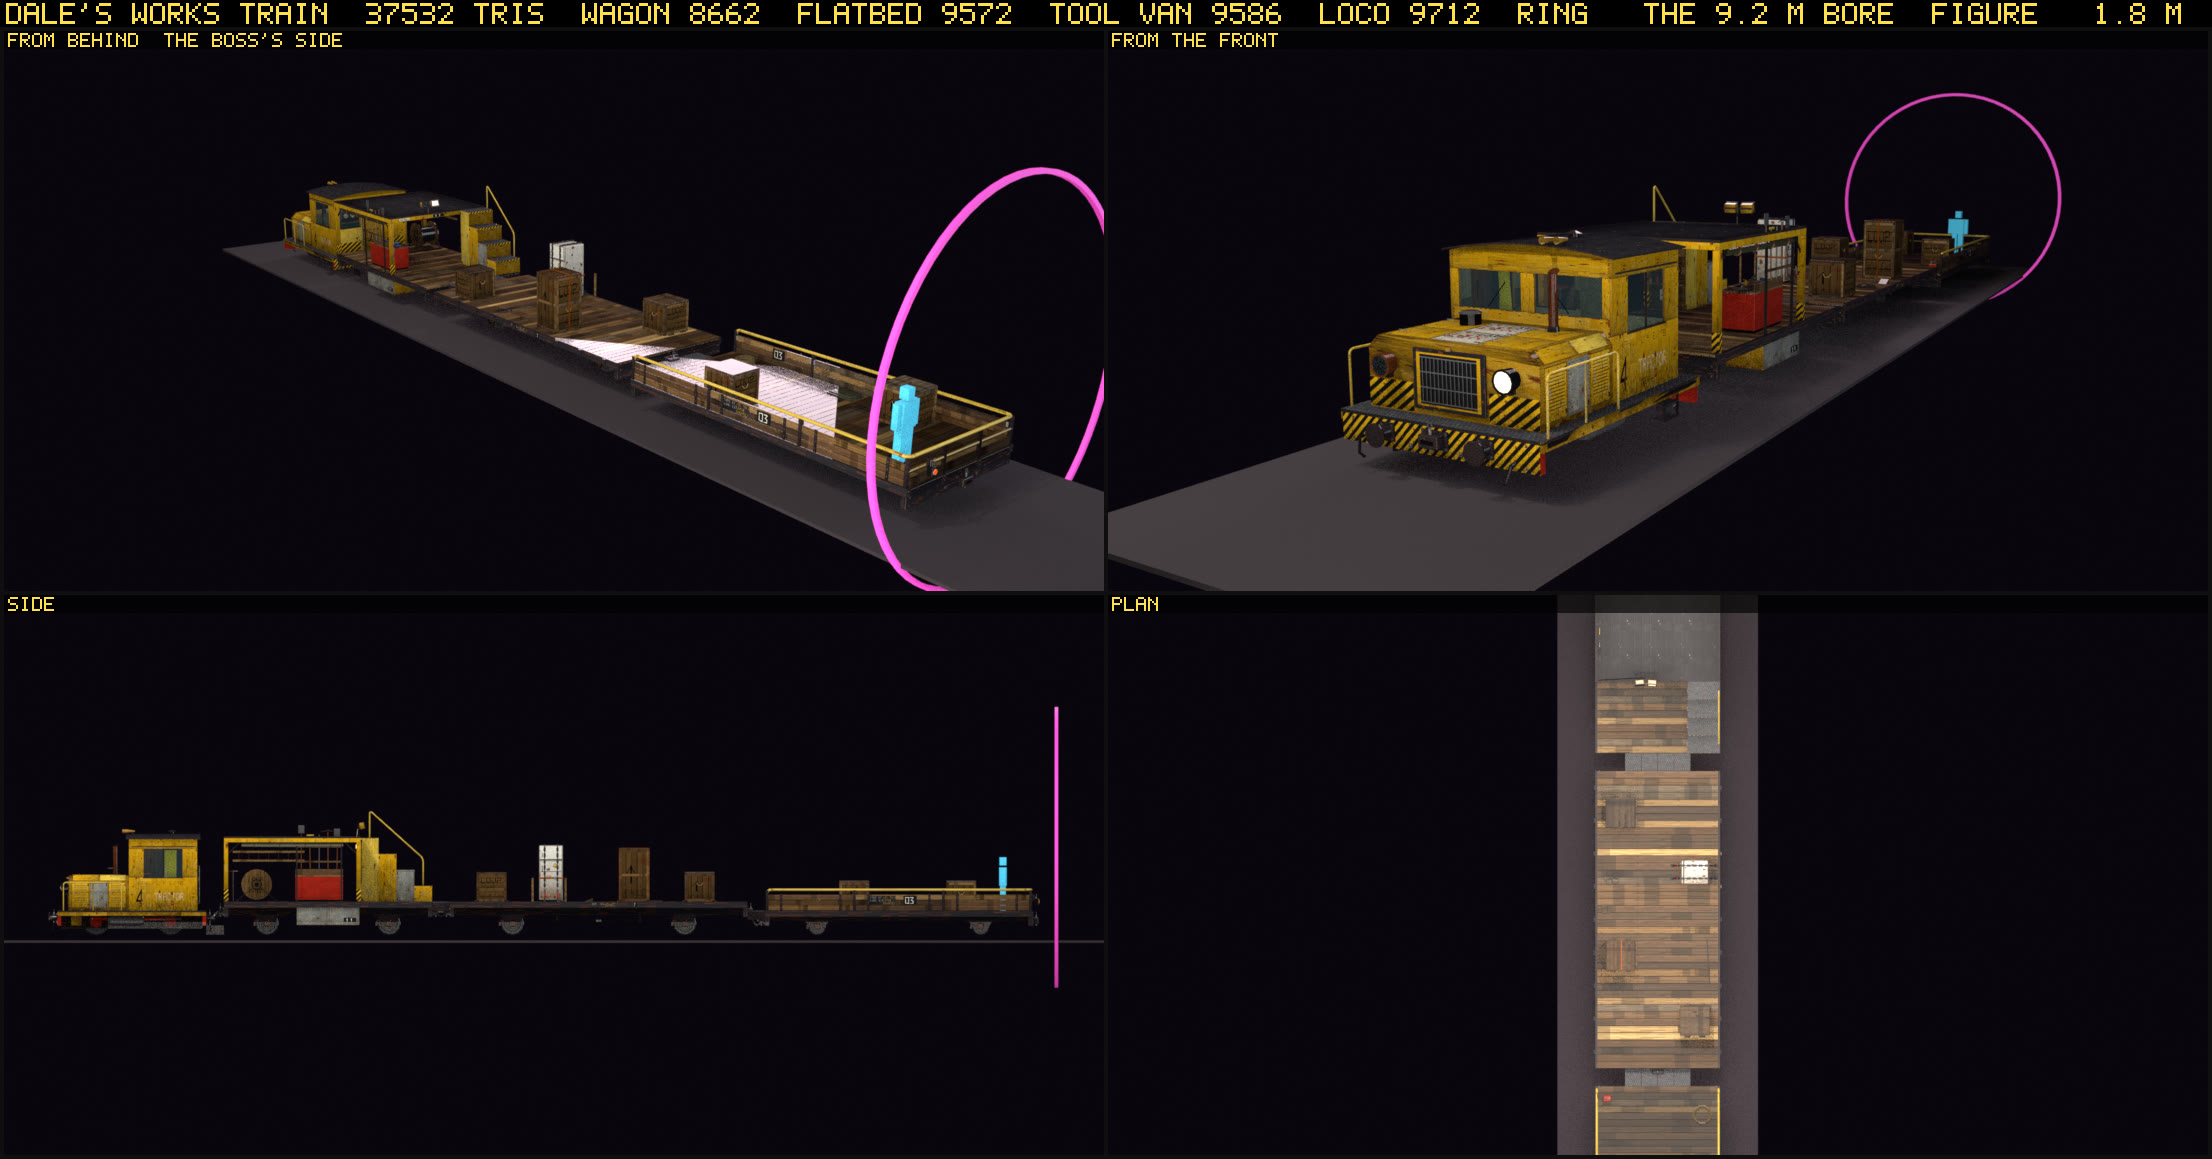
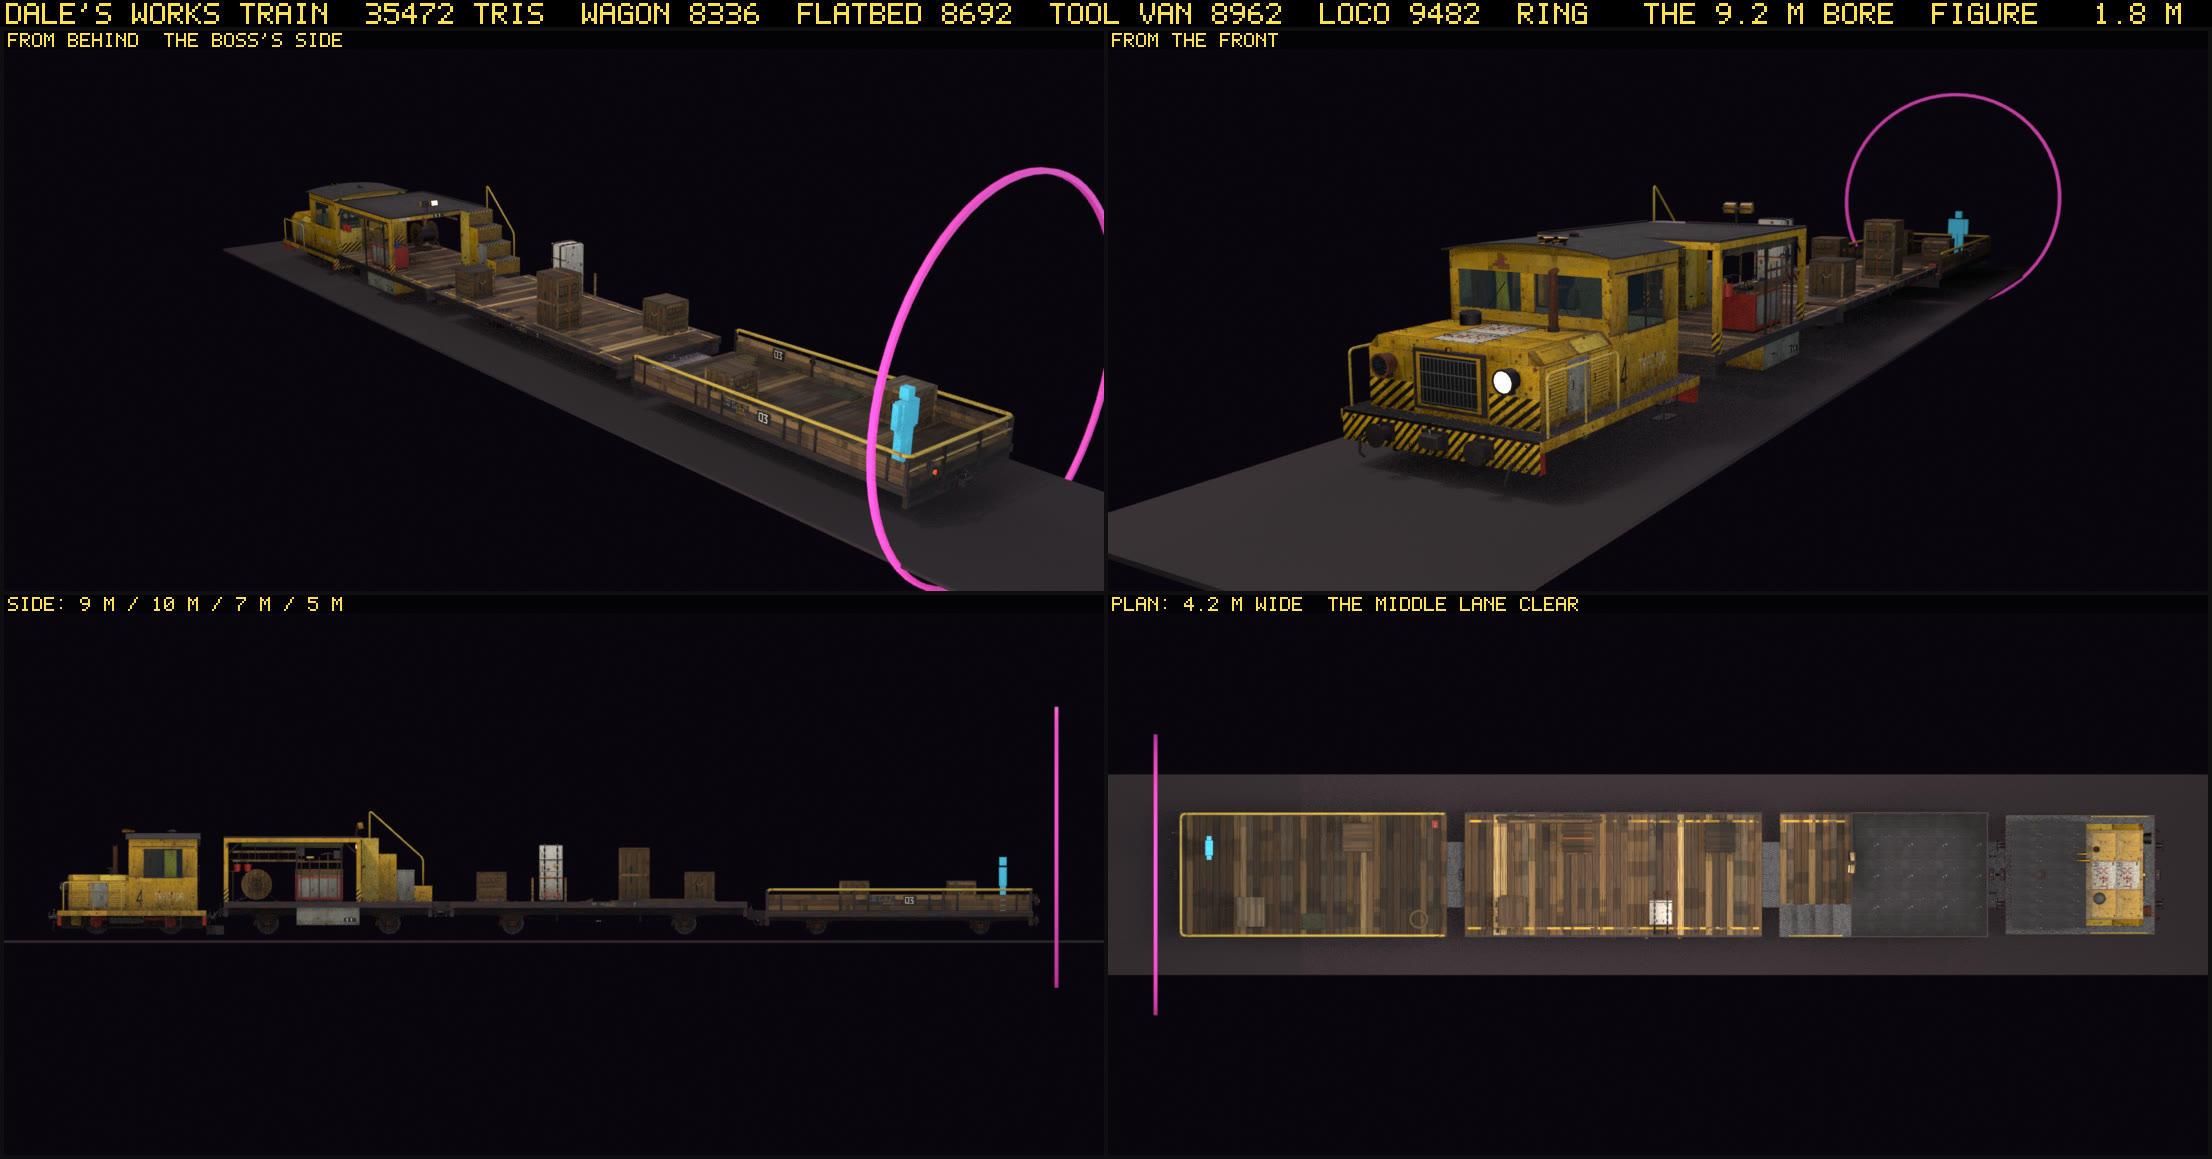
WIP train shots and build tweaks (saved when usage ran out)
Claude-Session: https://claude.ai/code/session_011tKQCrJdaf4PGM8wkY8xV7

diff --git a/tools/blender/make_rp_train.py b/tools/blender/make_rp_train.py
@@ -153,7 +153,7 @@ VIEWS = {  # name: (camera, target, lens or ('o', ortho scale), exposure)
     'van_board': ((0.6, 2.6, 25.6), (-1.5, 2.4, 22.8), 30, 0.6),
     'loco': ((9, 4.6, 37.5), (0, 1.8, 30.5), 35, 0.0), 'loco_back': ((3.6, 3.4, 23.2), (0, 2.1, 28.3), 30, 0.2), 'cab': ((0.9, 2.75, 28.0), (0.3, 2.2, 30.4), 20, 0.7), 'cab2': ((-1.9, 2.9, 27.2), (0.6, 2.0, 30.2), 30, 0.7),
     'loco_front': ((-4.5, 2.6, 38.0), (0, 1.6, 32.0), 35, 0.0), 'loco_side': ((60, 2.0, 30.5), (0, 2.0, 30.5), ('o', 7.5), 0.0), 'under': ((7.5, 0.9, 5.0), (0, 0.8, 9.5), 28, 0.6),
-    'bitten': ((4.5, 4.2, 4.6), (0, 1.1, 10.2), 35, 0.2), 'bitten2': ((-1.0, 2.6, 13.4), (0.1, 1.0, 9.6), 24, 0.3),
+    'bitten': ((4.5, 4.2, 4.6), (0, 1.1, 10.2), 35, 0.2), 'bitten2': ((1.1, 2.5, 12.9), (0.2, 1.0, 9.5), 24, 0.3),
     'covers': ((60, 1.0, 0), (0, 1.0, 0), ('o', 12), 0.0),
 }
 
@@ -255,9 +255,12 @@ def set_state(N, bitten=False, lod=False):
 
 def preview(N, pdir, views, bitten=False, res=(960, 600)):
     os.makedirs(pdir, exist_ok=True); colour_preview([m for m in M.values()])
+    rest = [o for k, o in N.items() if o is not None and o.type == 'MESH' and not (o.parent and o.parent.name.startswith('car_'))]   # the kit and the carriage are built at the origin too
+    for o in rest: o.hide_render = True
     set_state(N, bitten, bool(arg('lod'))); scale_set(not arg('no-set')); out = []
     for v in views: out.append(shoot(v, os.path.join(pdir, f'tr_{v}{"_b" if bitten else ""}.png'), res, int(arg('samples', 10))))
     clear_studio(); scale_set(False); set_state(N)
+    for o in rest: o.hide_render = False
     print('JF_PREVIEW', ' '.join(out))
 
 
